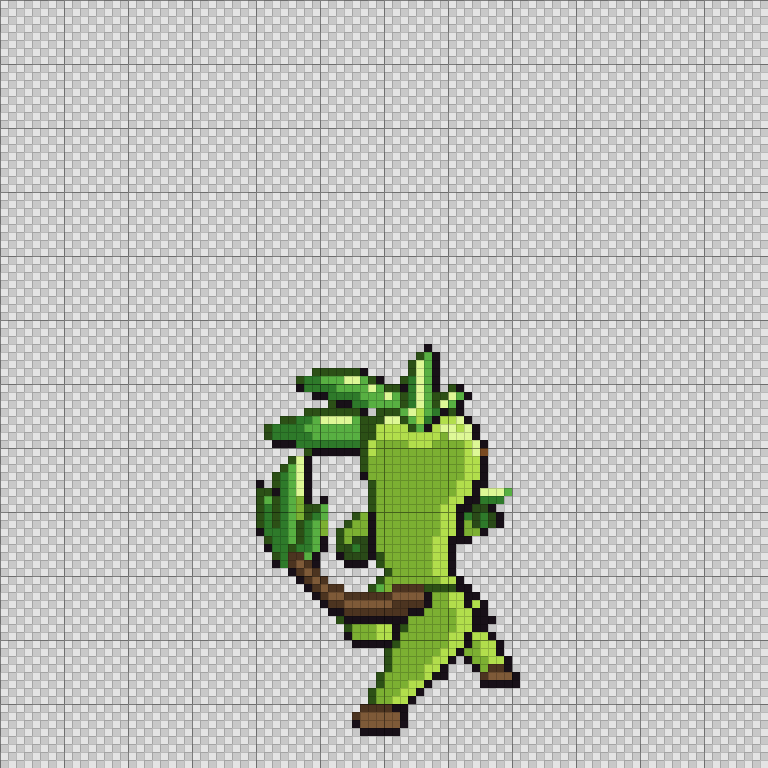
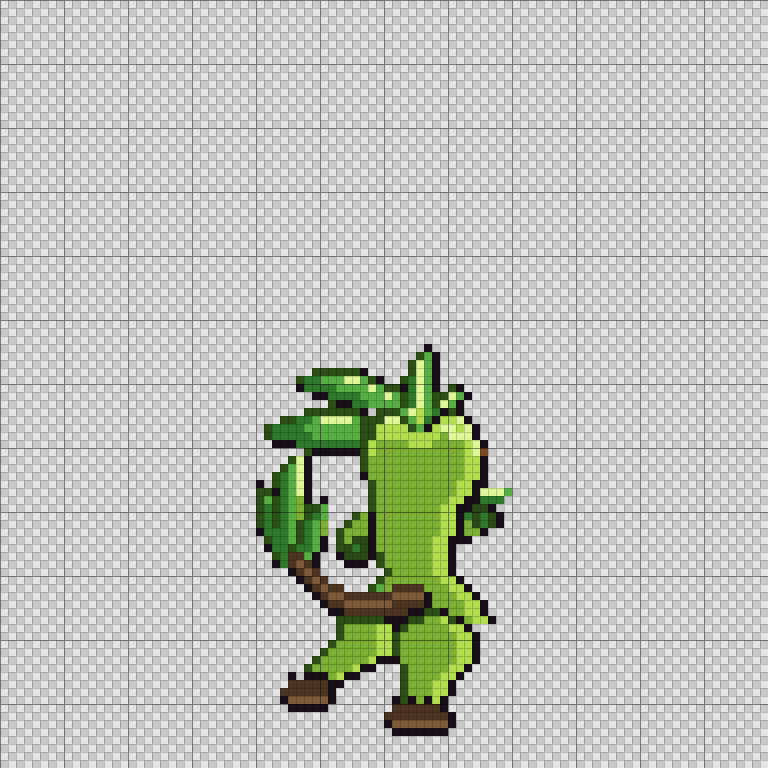
Sprigby back: legs redrawn in the front sprite's style (thick haunches, big feet seen heel-on, wide planted stance)
Claude-Session: https://claude.ai/code/session_01NDaBcuNY8LLNS1rzT9Z9Co

Changed region(s): [[0.3438, 0.75, 0.6875, 0.9688]]

diff --git a/art/creatures/sprigby.px.js b/art/creatures/sprigby.px.js
@@ -5,16 +5,20 @@
 // Translated from the owner's concept art (art/concepts/line_wallaby.png, left creature, mirrored
 // to face left) the BW way: art/tools/art2sprite.py did the majority-vote downscale to 48 px tall,
 // then the head, crest, face, fists and sprig were redrawn by hand over a gridded underlay of the
-// art. Approved by the owner. The back sprite is the same pose from behind, facing right, drawn
-// like Mienfoo's: the camera moved behind him, both arms still up but seen from behind
-// (elbow and forearm on the near side, the back of the taped fist past the head; the fists point
-// away toward the foe); the tail grows from the base of the spine and lies over the hips, toward
-// the camera, before curving up into the leaf fan; the legs are the pose turned round, not mirrored: his right leg,
-// nearer the camera, trails back toward it (the biggest and lowest, the heel and sole showing),
-// the left steps forward and away (only its shin and foot peek out on the far right); the back faces away from the
-// light, so the skin is the shadow tone with a lit rim along the top and right, one continuous
-// form from the head down; the corner of the eye and the sprig's tip peek past the head's right
-// edge to show the facing.
+// art. Approved by the owner.
+//
+// The back sprite is the same pose turned round (not mirrored), facing right, drawn like
+// Mienfoo's back: the camera moved behind him.
+// - Arms still up but seen from behind: elbow and forearm on the near side, the back of the taped
+//   fist past the head; the fists point away toward the foe.
+// - The back faces away from the light: the skin is the shadow tone with a lit rim along the top
+//   and right, one continuous form from the head down.
+// - The tail grows from the base of the spine and lies over the hips, toward the camera, before
+//   curving up into the leaf fan.
+// - Legs: a wide planted stance with thick haunches; his right leg, nearer the camera, is the
+//   biggest and lowest, the left steps away and sits higher and smaller; feet seen heel-on, the
+//   toe claws peeking over.
+// - The corner of the eye and the sprig's tip peek past the head's right edge to show the facing.
 // Grids sit so the feet are on y = 91.
 //
 // Sprites: sprigby (front still), sprigby_idle, sprigby_back, sprigby_back_idle.
@@ -116,25 +120,25 @@ const BACK = `
   ..kgrRrk...kkk.Dssssssbbk
   ....krRr........Dsssssbbk
   .....krRr......Dsssssssbbk
-  ......krRrr...DlsrrrrDDDDkk
-  .......krRRrrrrrrRRRRkssbbkk
-  ........krrRRRRRRrrrrkssbbkbk
-  .........kkrrrrrrrrkkssssbbkk
-  ..........Dkkkkkkkkssssssbbkkk
-  ...........DsssbbkDssssssbbkk
-  ...........ksssbbkssssssbbkbbk
-  ............kkkkkDssssssbbksbbk
-  ................Dssssssbbkssbbk
-  ................Dsssssbbk.kssbbk
-  ................Dssssbbk...ksrrk
-  ...............Dsssssbkk....rRRRk
-  ...............Dsssbbk......kkkkk
-  ..............Dsssbbk
-  ..............Dssbbk
-  .............rrrrkk
-  ............rRRRRRk
-  ............kRRRRRk
-  .............kkkkk`
+  ......krRrr...Dlsrrrrsssbbk
+  .......krRRrrrrrrRRRRksssbbk
+  ........krrRRRRRRrrrrkssssbbk
+  .........kkrrrrrrrrkkDDkssbbk
+  ..........DDDDDDkkkDDssbDksbbk
+  ..........DssssbbkDsssssbbk
+  ..........DssssbbDsssssssbbk
+  .........DsssssbbDsssssssbbk
+  ........DssssssbbDsssssssbbk
+  .......Dssssssbkkksssssssbbk
+  ......Dsssssbkk...Dsssssbbk
+  ....k.kkksbkk.....Dssssbbk
+  ....rrrrrkk.......Dsssbbk
+  ...rrrrrrk........Dsssbbk
+  ...kRRRRRk.......kDkskbk
+  ....kkkkk........rrrrrrk
+  ................rrrrrrrrk
+  ................kRRRRRRRk
+  .................kkkkkkk`
 
 // Draw a grid with everything above row `split` shifted down by `bob` (the breath: the upper body
 // sinks into the hips); the lower rows go first so the upper body overlaps them.
